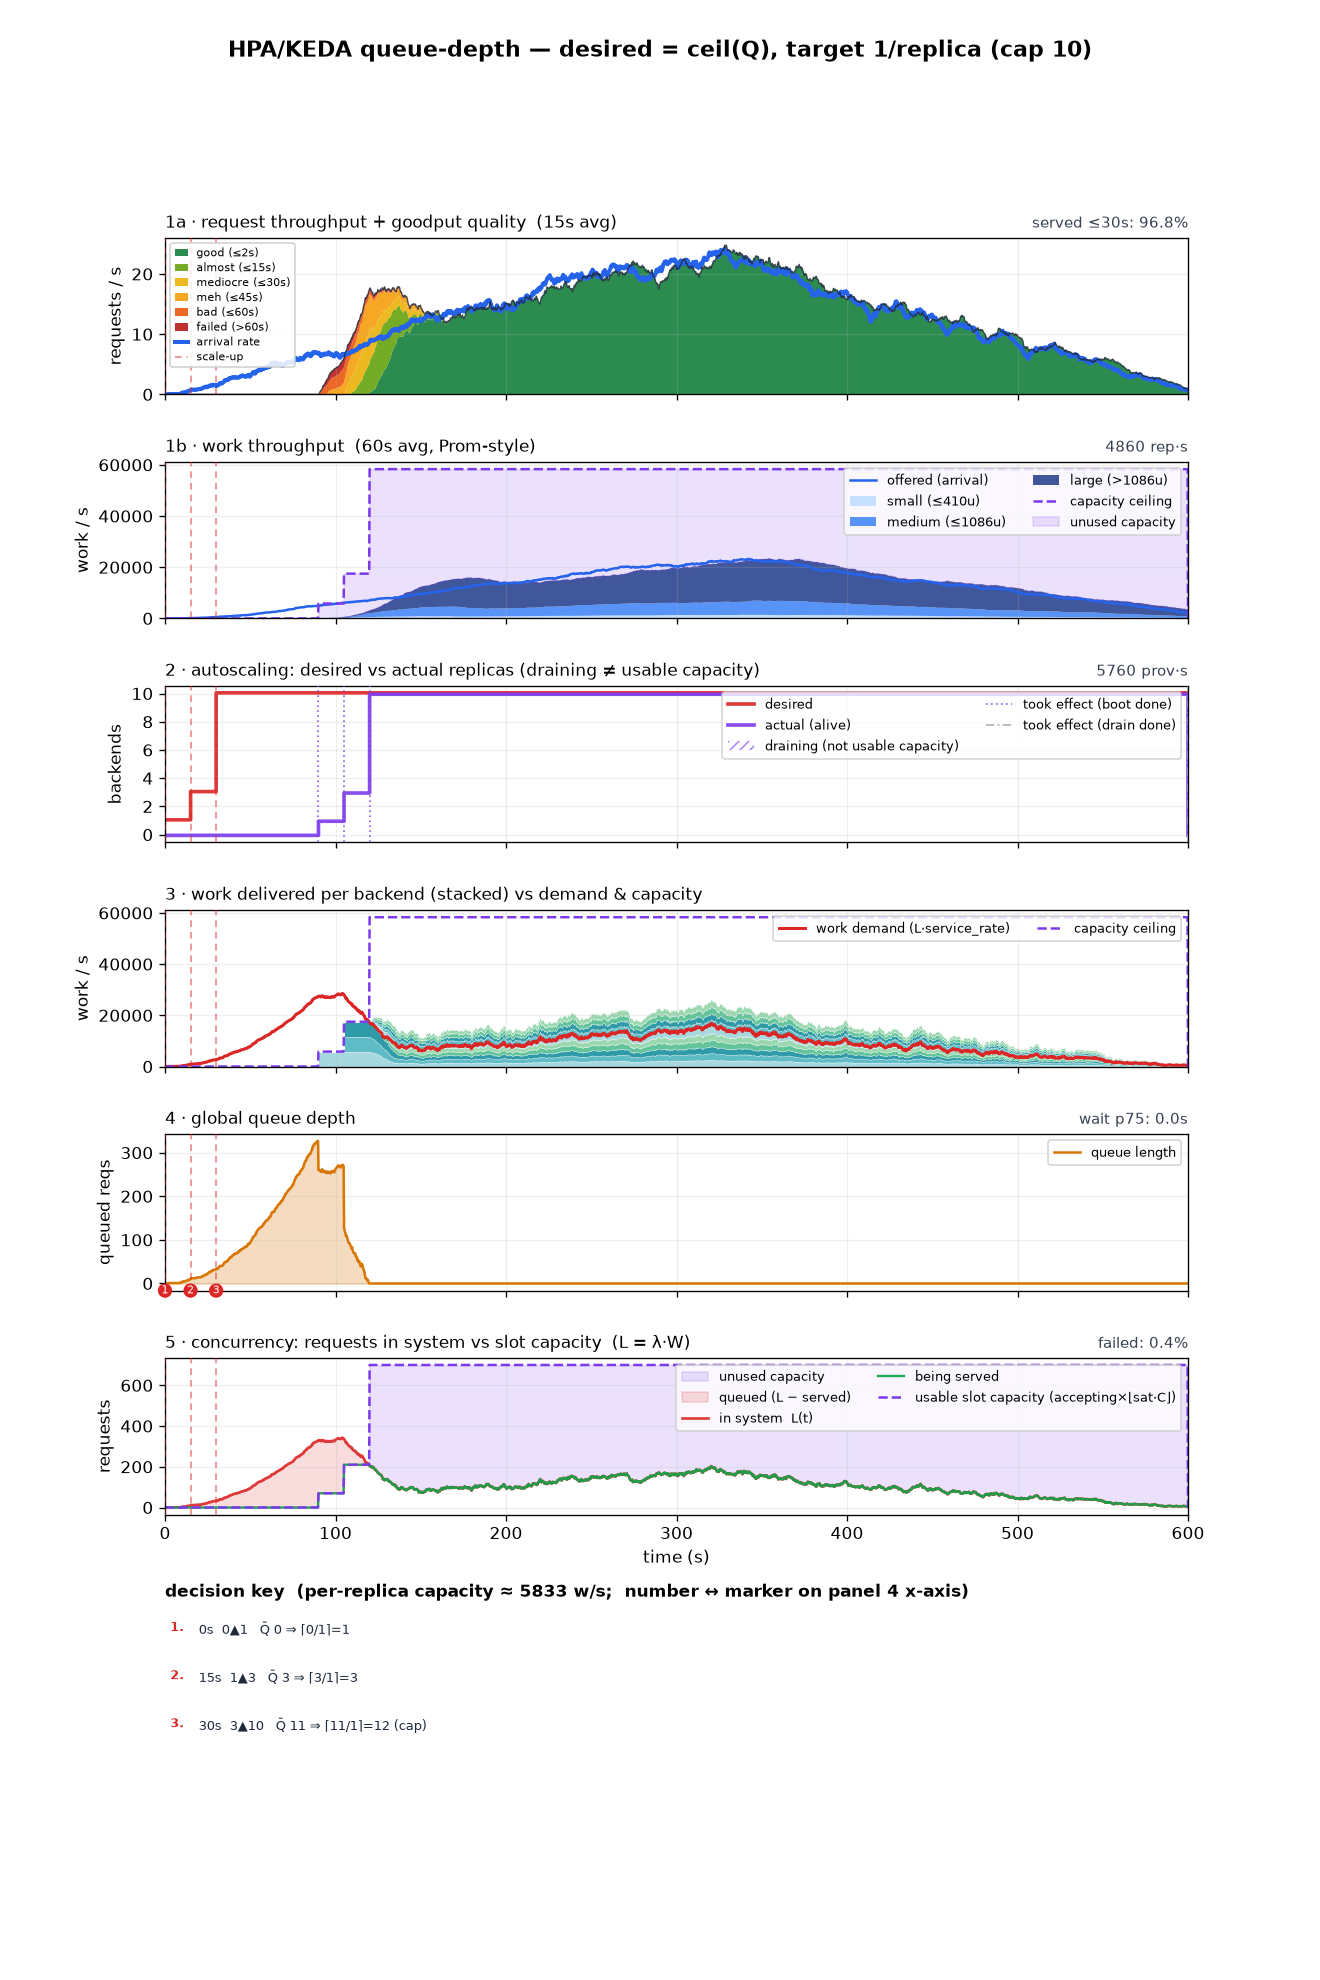
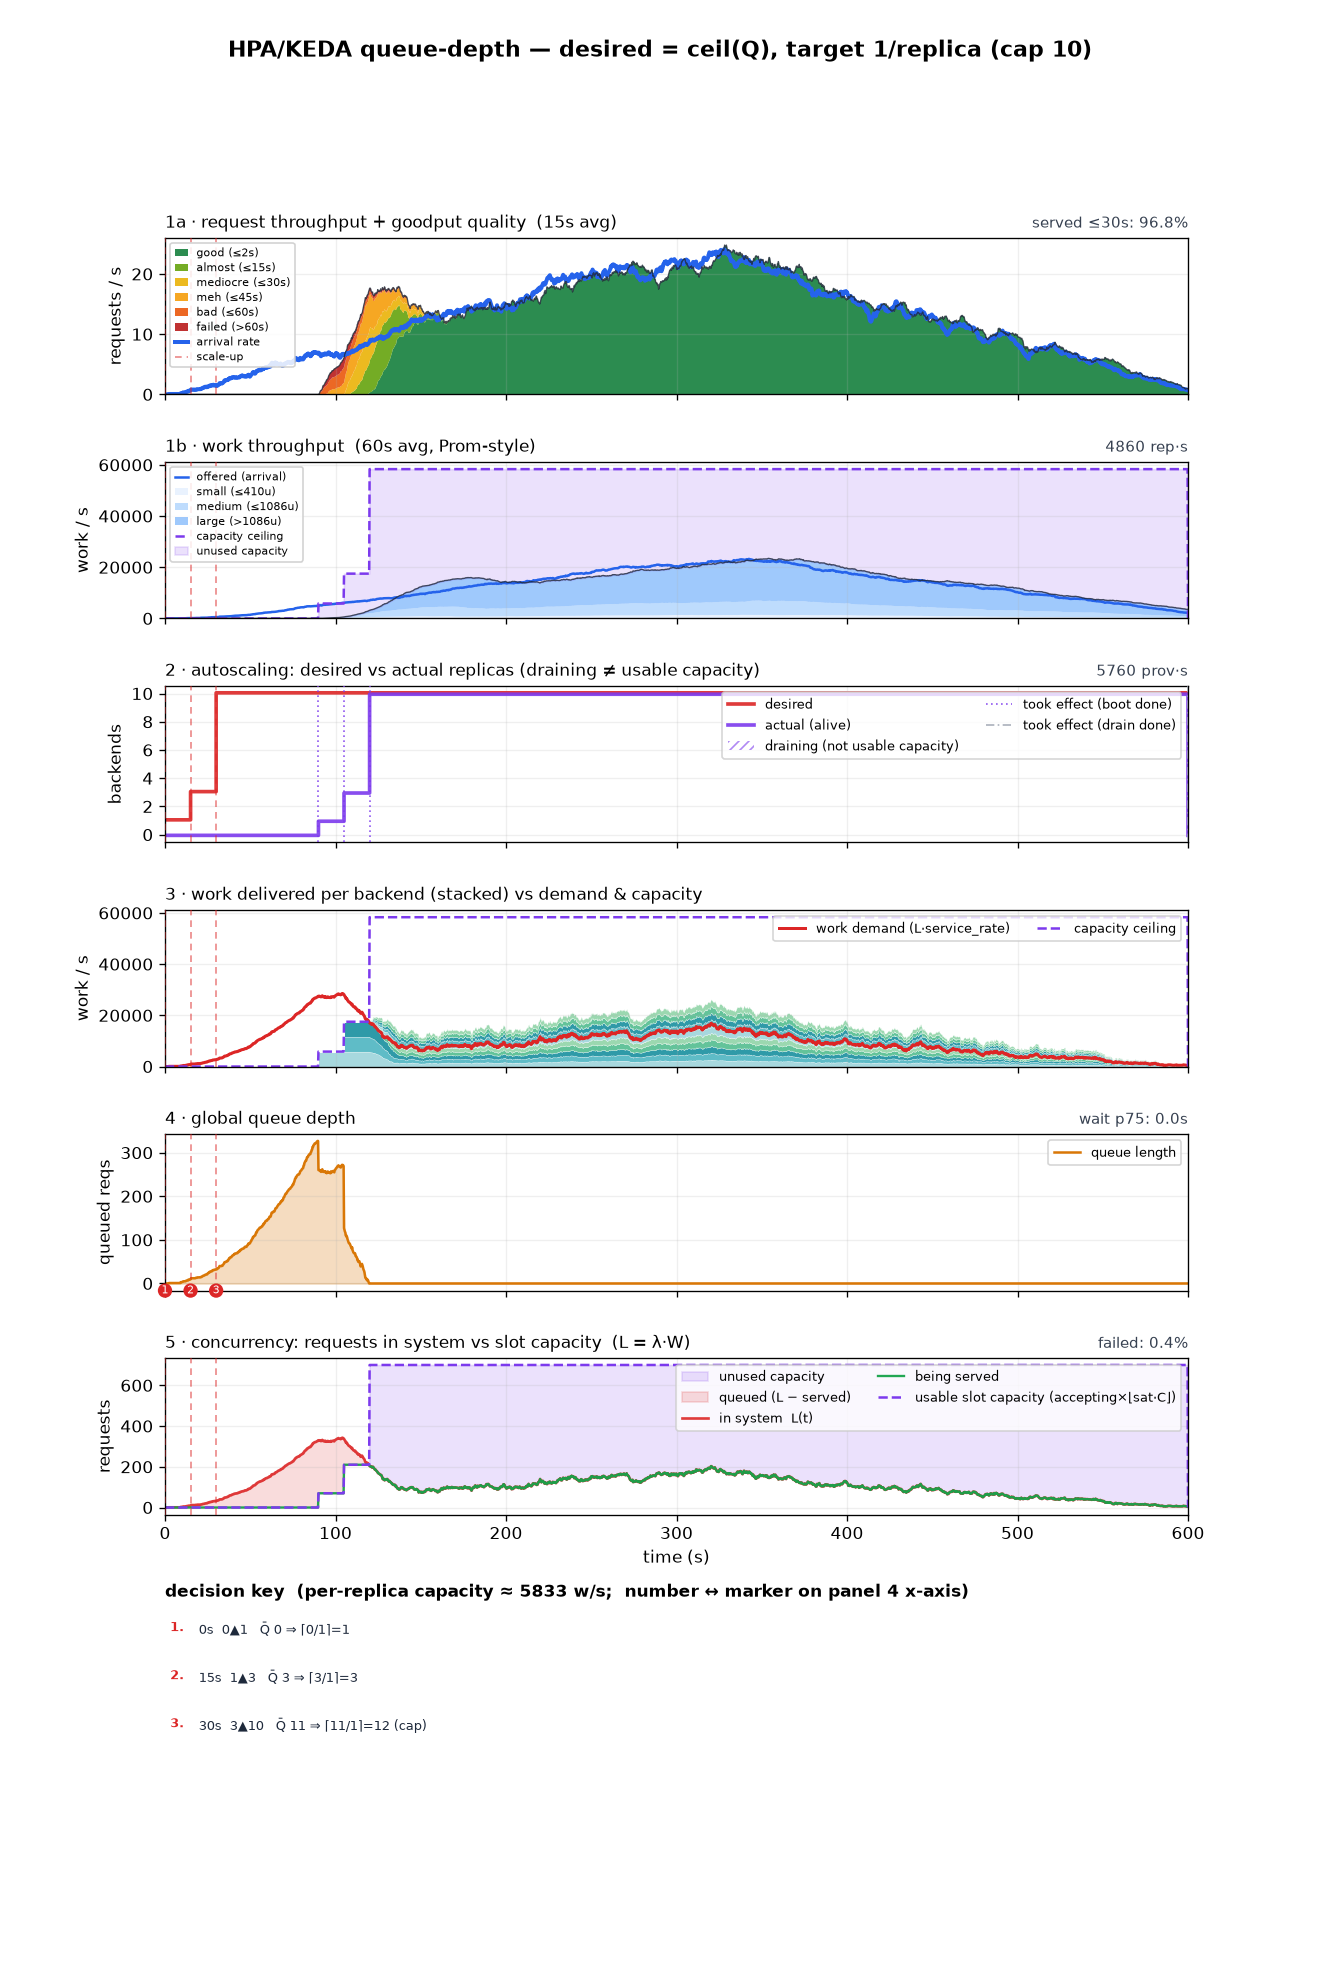
scratch(autoscaling-viz): p1b polish — lighter size shades, stack-top outline, left legend
Panel 1b (work composition by request size) was visually busy after the
size-band stackplot landed:
- SIZE_SHADES lightened to pastels (#dbeafe/#93c5fd/#60a5fa) so the stack
  no longer competes with the saturated arrival/capacity overlay lines.
- Stack alpha 0.85 -> 0.6; added a thin dark outline tracing the total
  completed-work curve (stack top), matching panel 1a's departure outline.
- Panel 1b legend moved to the narrow upper-left style panel 1a uses, so
  the stacked-band key no longer sits over the ramp data.

Regenerated all 8 scenario PNGs.

Changed region(s): [[0.2795, 0.2157, 0.9008, 0.3389], [0.1242, 0.2157, 0.2174, 0.3081]]

diff --git a/scratch/autoscaling-viz/plots.py b/scratch/autoscaling-viz/plots.py
@@ -55,9 +55,11 @@ BAND_SHADES = ["#a7d8de", "#5fbcc7", "#2f9aa8", "#63c39a", "#9bd8b0"]
 # not normalised by request size). 6 colours: good/almost/mediocre/meh/bad/failed.
 GP_COLORS = ["#15803d", "#65a30d", "#eab308", "#f59e0b", "#ea580c", "#b91c1c"]
 
-# work COMPOSITION by request size (panel 1b): a light->dark blue ramp, small->large
-# — distinct from GP_COLORS (goodput green->red) and BAND_SHADES (per-pod teal).
-SIZE_SHADES = ["#bfdbfe", "#3b82f6", "#1e3a8a"]
+# work COMPOSITION by request size (panel 1b): a light pastel blue ramp, small->large
+# — distinct from GP_COLORS (goodput green->red) and BAND_SHADES (per-pod teal). Kept
+# light (used at low alpha too) since panel 1b already carries arrival/capacity lines
+# in saturated blue/purple — a heavy stack would compete with them.
+SIZE_SHADES = ["#dbeafe", "#93c5fd", "#60a5fa"]
 
 
 def _changes(series):
@@ -191,7 +193,11 @@ def render(ts: dict, title: str, path: str):
     # shows how much of the delivered work came from large vs small items.
     ax[1].plot(g, ts["arr_w"], color=C_ARR, label="offered (arrival)")
     ax[1].stackplot(g, *ts["size_bands"], colors=SIZE_SHADES, labels=ts["size_labels"],
-                    alpha=0.85, edgecolor="none")
+                    alpha=0.6, edgecolor="none")
+    # thin dark outline tracing the TOTAL completed-work curve (stack top), same
+    # treatment as panel 1a's departure outline — not per-band edges.
+    dep_total_w = [sum(v) for v in zip(*ts["size_bands"])]
+    ax[1].plot(g, dep_total_w, color="#1f2937", lw=0.8, alpha=0.8, zorder=2.5)
     ax[1].plot(g, ts["capacity_work"], color=C_CAP, ls="--", label="capacity ceiling")
     # shade the headroom between what was completed and the ceiling: capacity you
     # paid for but did not use (only where the ceiling sits above completions).
@@ -315,8 +321,8 @@ def render(ts: dict, title: str, path: str):
     for a in ax:
         a.grid(True, alpha=0.2)                       # tick-aligned gridlines
         _mark_decisions(a, decisions, label=(a is ax[0]))
-        if a is ax[0]:
-            # panel 1a carries the busy goodput-band key; keep it narrow (single
+        if a in (ax[0], ax[1]):
+            # panels 1a/1b carry a busy stacked-band key; keep it narrow (single
             # column) and tucked top-left so it never sits over the ramp data.
             a.legend(loc="upper left", fontsize=6.5, ncol=1,
                      labelspacing=0.3, handlelength=1.2, borderpad=0.4,
